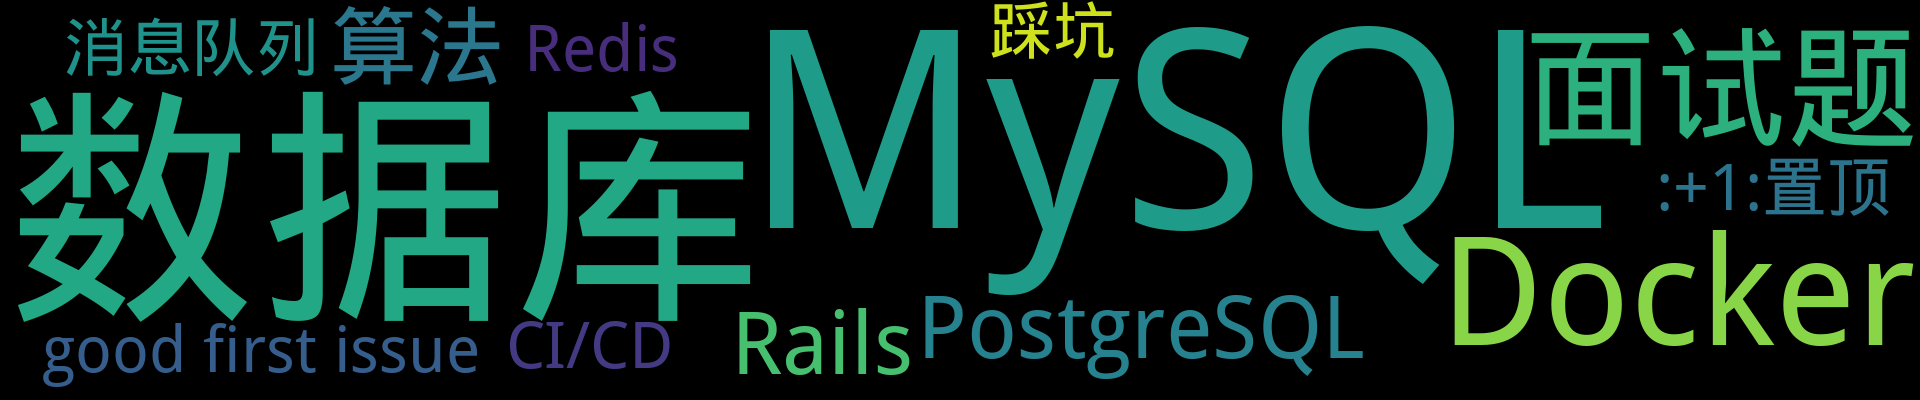
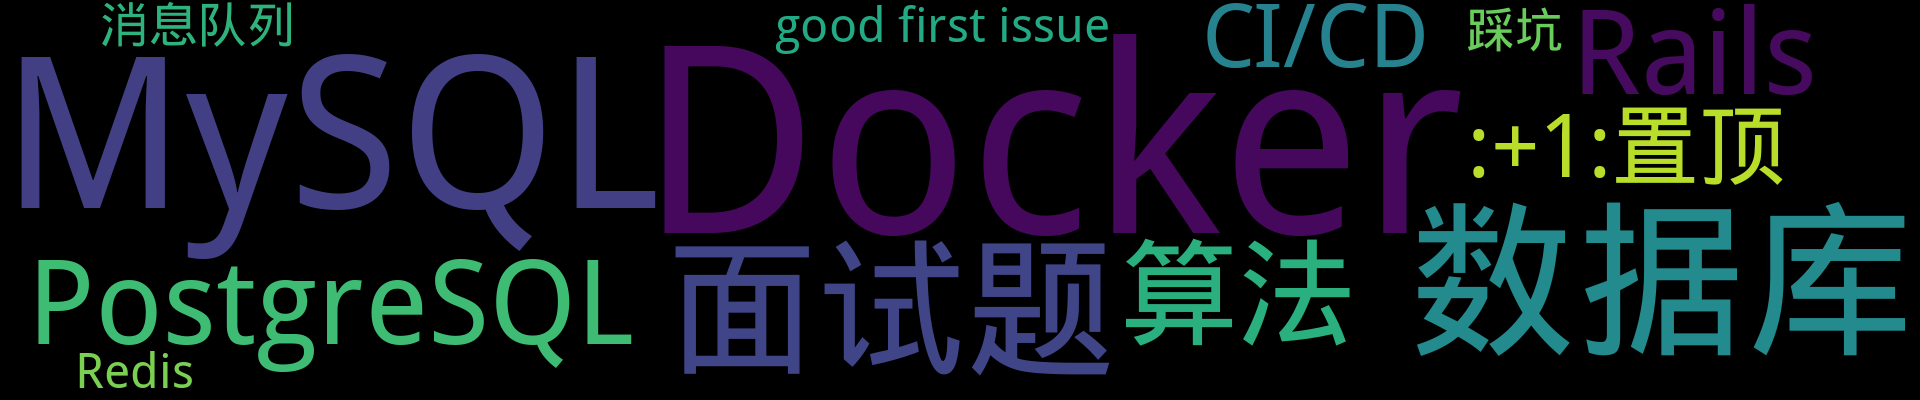
Update from Github Action

diff --git a/README.md b/README.md
@@ -3,7 +3,7 @@
 <p align='center'>
     <img src="https://badgen.net/badge/labels/16"/>
     <img src="https://badgen.net/github/issues/iamtomas/ghiblog"/>
-    <img src="https://badgen.net/badge/last-commit/2022-02-13 15:52:34"/>
+    <img src="https://badgen.net/badge/last-commit/2022-02-14 15:25:40"/>
     <img src="https://badgen.net/github/forks/iamtomas/ghiblog"/>
     <img src="https://badgen.net/github/stars/iamtomas/ghiblog"/>
     <img src="https://badgen.net/github/watchers/iamtomas/ghiblog"/>
@@ -20,6 +20,19 @@
 ## 置顶 :thumbsup: 
 - [基于Github Action自动生成并更新GitHub Issue博客的ReadMe](https://github.com/iamtomas/note/issues/1)  <sup>0 :speech_balloon:</sup>  	 
 ## 最新 :new: 
+
+#### [Docker入门二](https://github.com/iamtomas/note/issues/26) <sup>0 :speech_balloon:</sup> 	 2022-02-14 15:25:15
+
+:label: : [Docker](https://github.com/iamtomas/ghiblog/labels/Docker)
+
+组织编排Docker容器概念图
+
+<img width="580" alt="image" src="https://user-images.githubusercontent.com/83901620/153891833-1e3375c1-3caa-484c-b002-756f37a4f482
+
+[更多>>>](https://github.com/iamtomas/note/issues/26)
+
+---
+
 
 #### [Docker入门一](https://github.com/iamtomas/note/issues/25) <sup>0 :speech_balloon:</sup> 	 2022-02-13 15:28:39
 
@@ -76,19 +89,6 @@ oh-my-zsh的配置文件为.zshrc，而默认shell(bash)的配置文件为.bash_
 ---
 
 
-#### [如何本地不安装 postgreSQL 情况下执行 gem install pg](https://github.com/iamtomas/note/issues/21) <sup>0 :speech_balloon:</sup> 	 2022-01-27 09:44:26
-
-:label: : [PostgreSQL](https://github.com/iamtomas/ghiblog/labels/PostgreSQL)
-
-> Docker 安装 PostgreSQL 更方便， 但 Gemfile 要求在本地安装，如何在本地不安装 PostgreSQL 下执行 `gem install pg` ？
-
- `libpq` 是用 c 语言写的 postgreSQL 的程序接口 。在 Mac OS 环境，可以通过 `bre
-
-[更多>>>](https://github.com/iamtomas/note/issues/21)
-
----
-
-
 ## 分类  :card_file_box: 
 
 <details open="open">
@@ -122,8 +122,9 @@ oh-my-zsh的配置文件为.zshrc，而默认shell(bash)的配置文件为.bash_
 </details>
 
 <details>
-<summary>Docker	<sup>3:newspaper:</sup></summary>
+<summary>Docker	<sup>4:newspaper:</sup></summary>
 
+- [Docker入门二](https://github.com/iamtomas/note/issues/26)  <sup>0 :speech_balloon:</sup>  	 
 - [Docker入门一](https://github.com/iamtomas/note/issues/25)  <sup>0 :speech_balloon:</sup>  	 
 - [Docker-compose up failing because "port is already allocated"](https://github.com/iamtomas/note/issues/24)  <sup>0 :speech_balloon:</sup>  	 
 - [Docker Demo（进阶）](https://github.com/iamtomas/note/issues/22)  <sup>0 :speech_balloon:</sup>  	 
